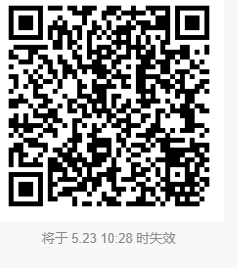
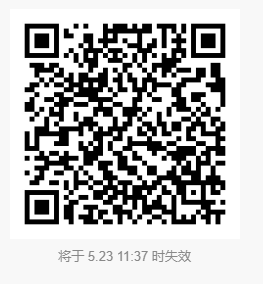
feat:股票代码字段更新

diff --git a/README.md b/README.md
@@ -16,7 +16,7 @@ frond_end:目录是微信小程序代码。
 
 #### 微信小程序体验二维码
 
-![临时体验二维码](https://i.loli.net/2021/05/23/9RcCeltFjO2Apra.png)
+![临时体验二维码](![](https://i.loli.net/2021/05/23/rpwjaEYZdk9tHCi.png))
 
 
 
